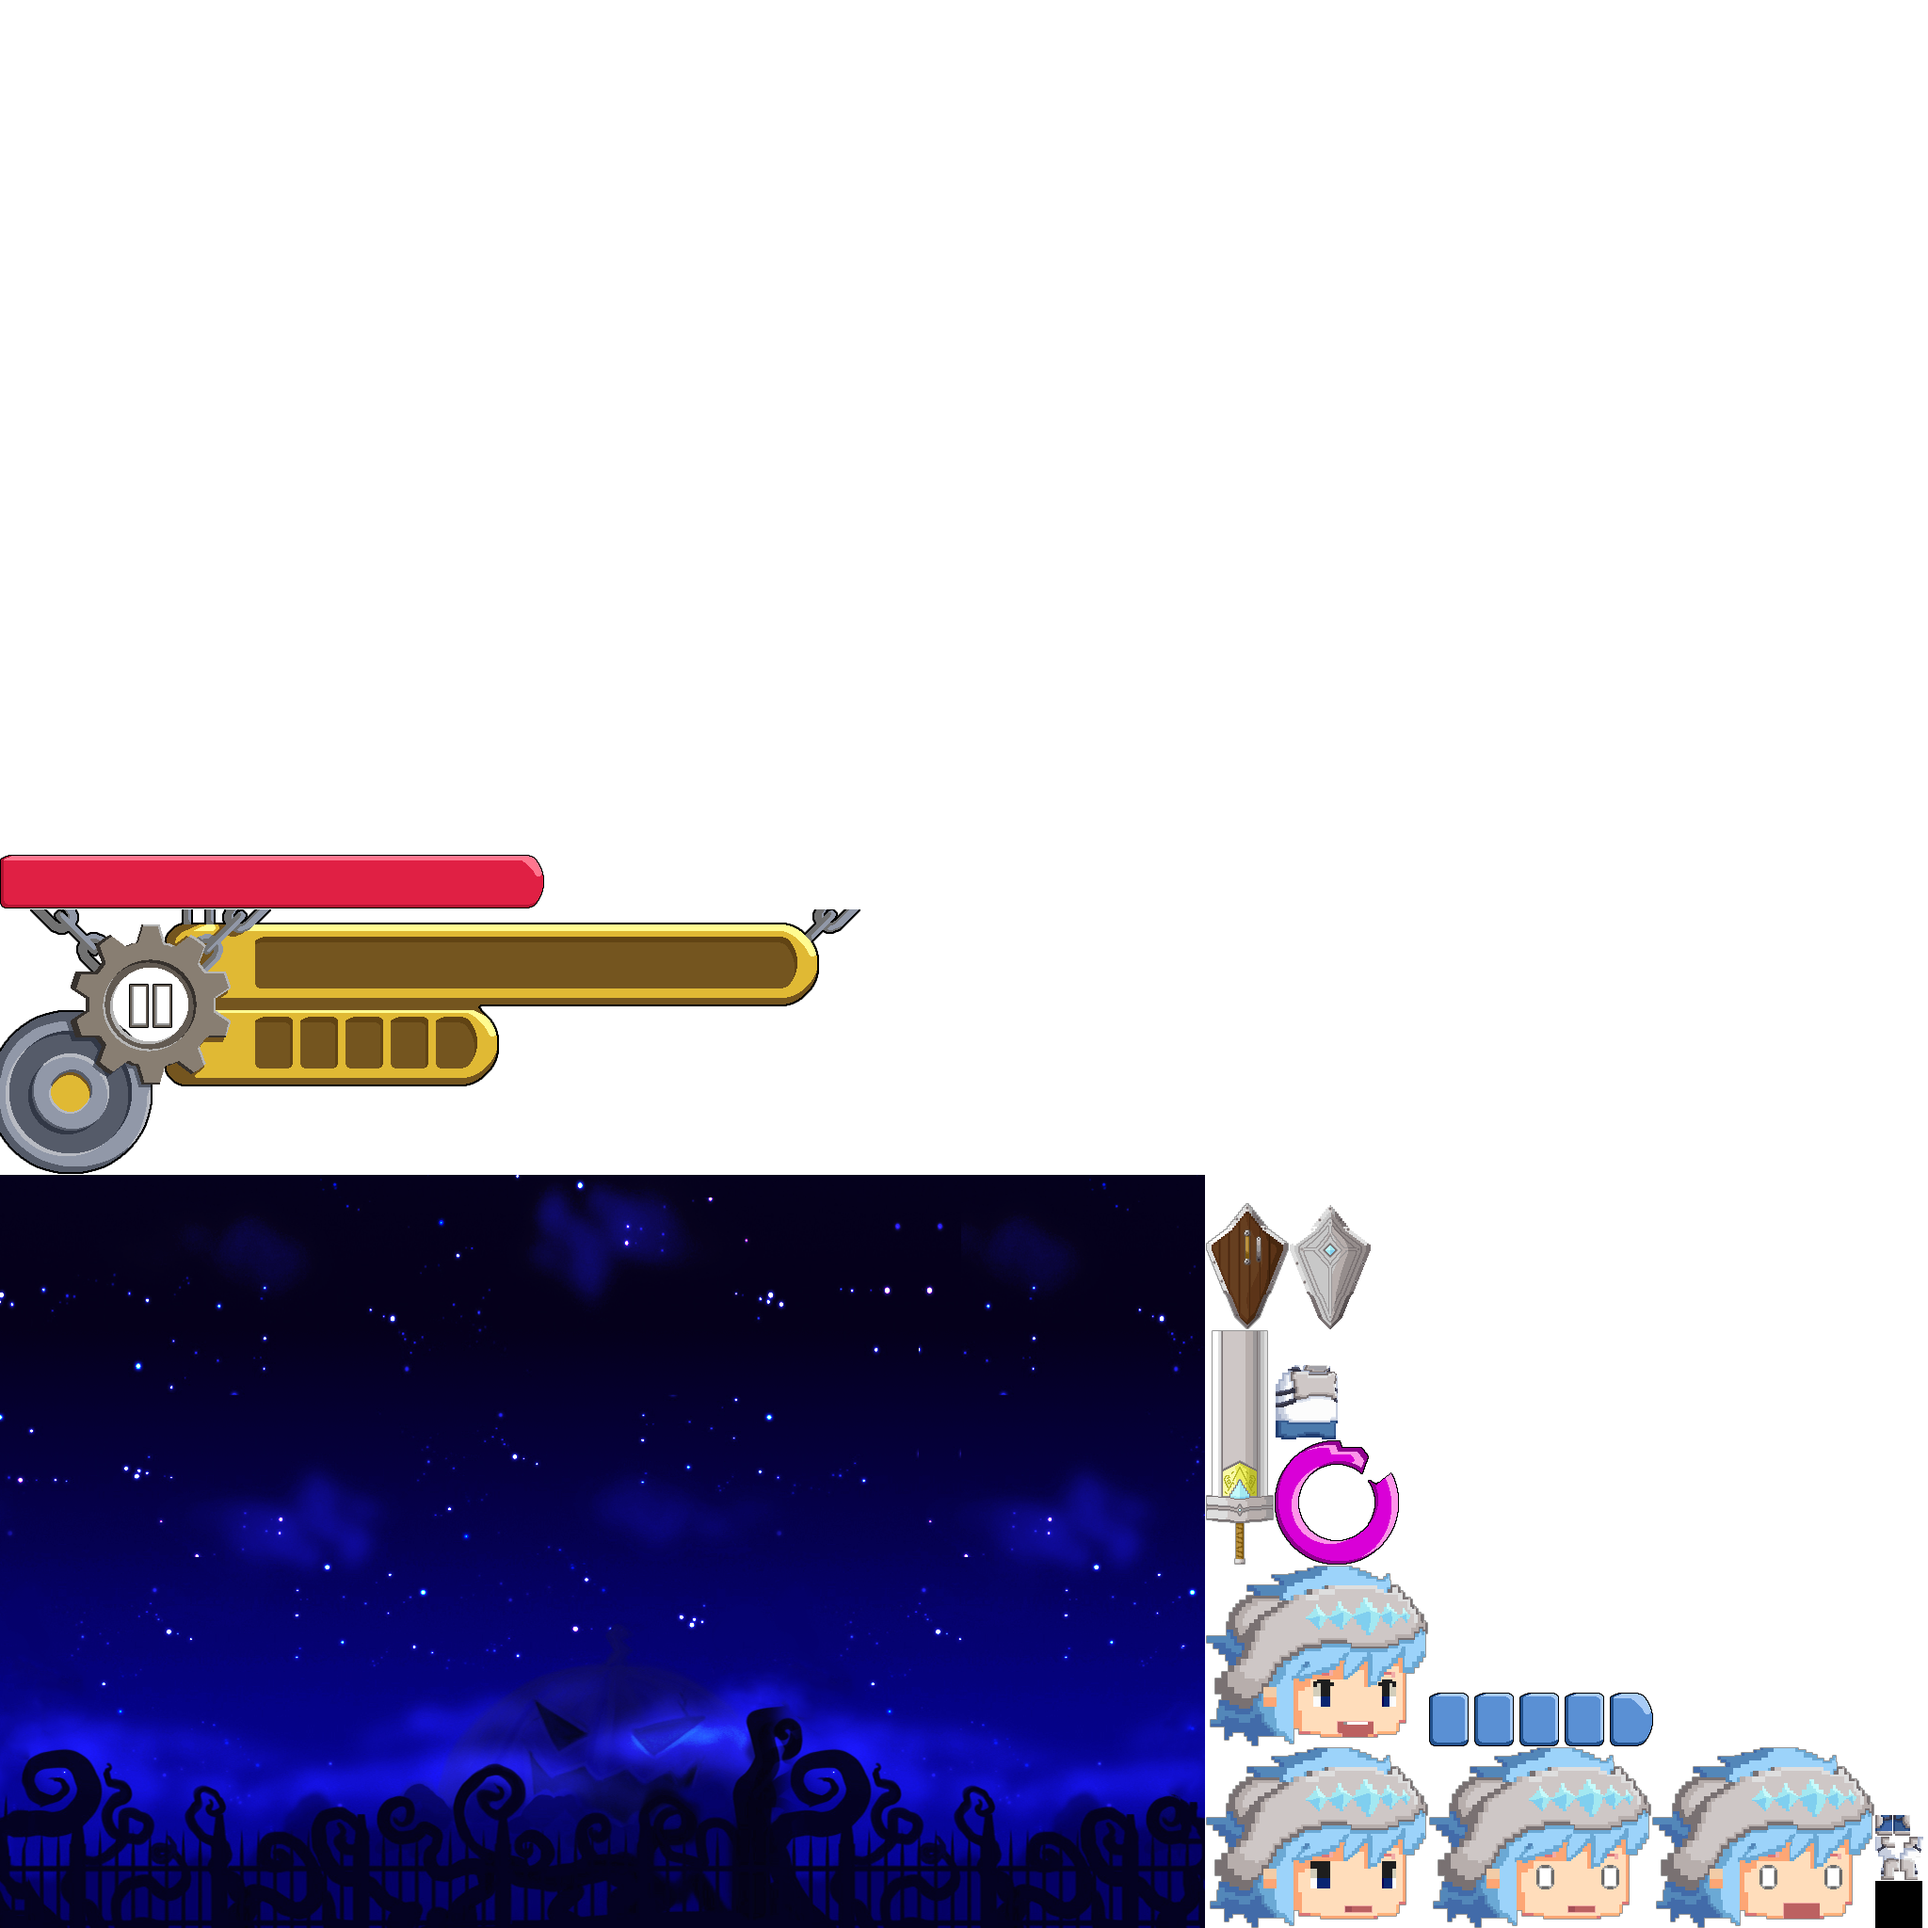
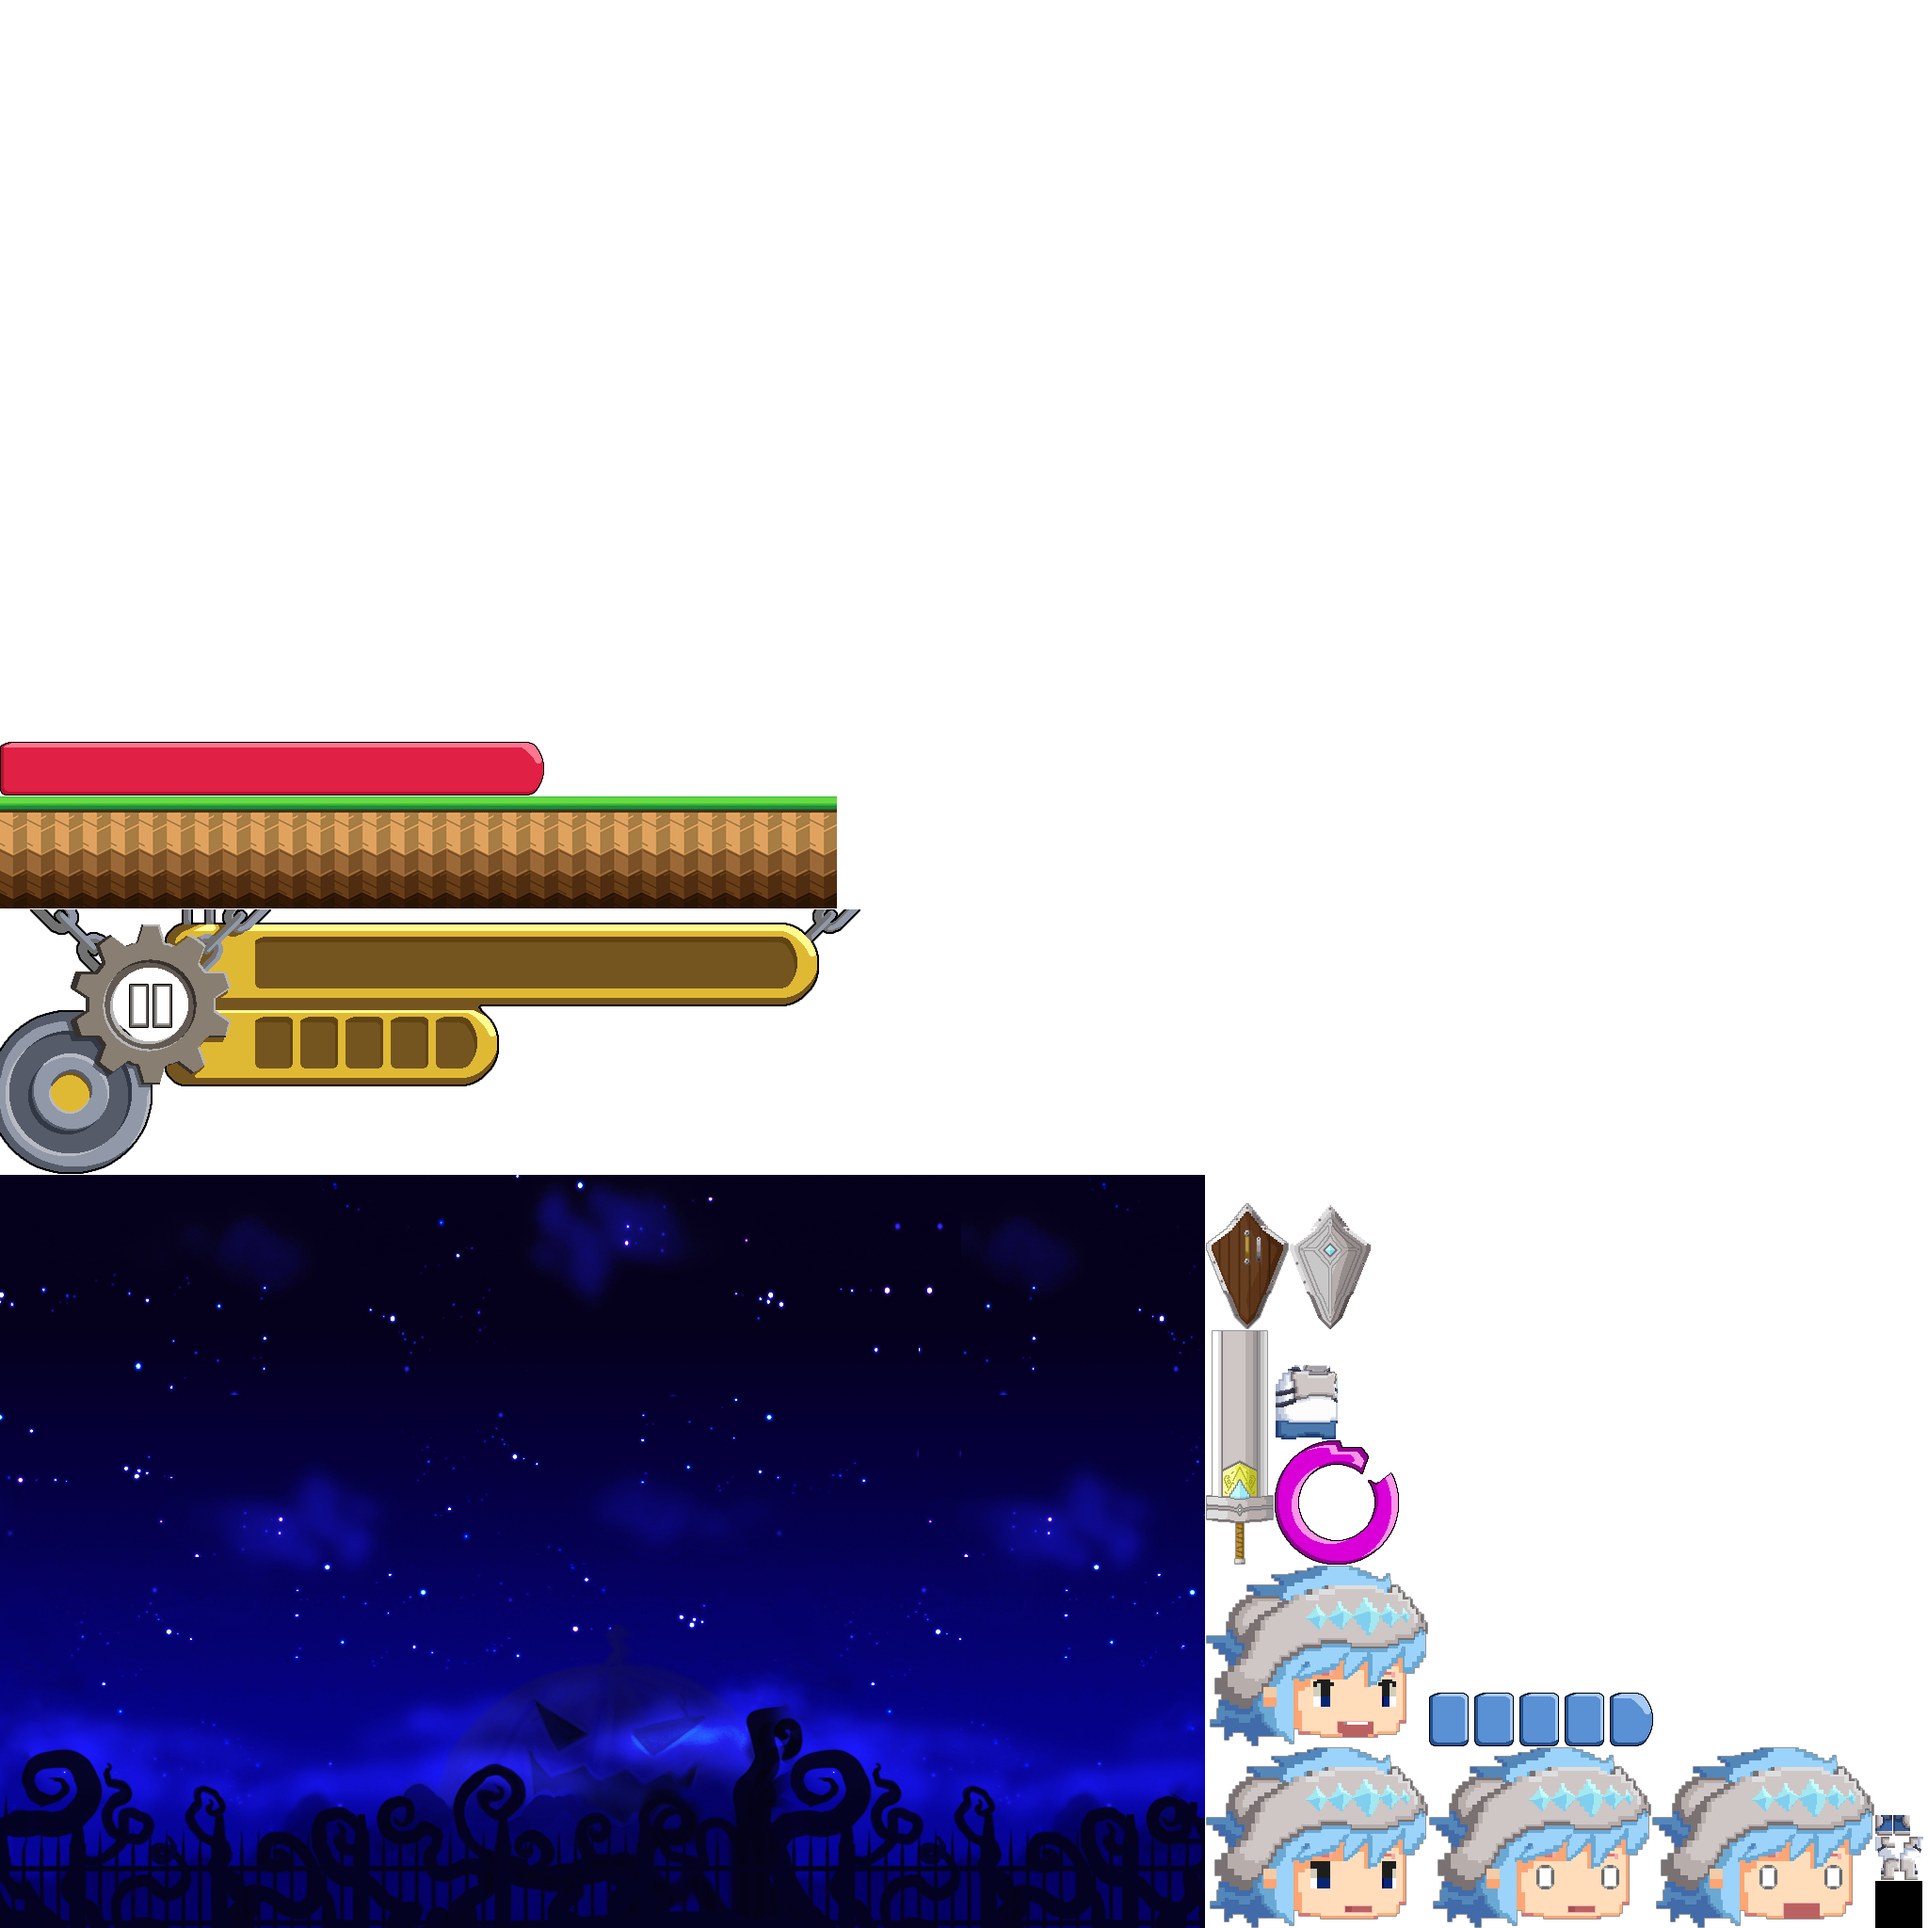
2015-08-10 바닥
바닥 움직임추가

Changed region(s): [[0.0, 0.375, 0.4375, 0.4688]]

diff --git a/Assets/sc.cs b/Assets/sc.cs
@@ -1,0 +1,15 @@
+using UnityEngine;
+using System.Collections;
+
+public class sc : MonoBehaviour {
+
+	// Use this for initialization
+	void Start () {
+	
+	}
+	
+	// Update is called once per frame
+	void Update () {
+	
+	}
+}
